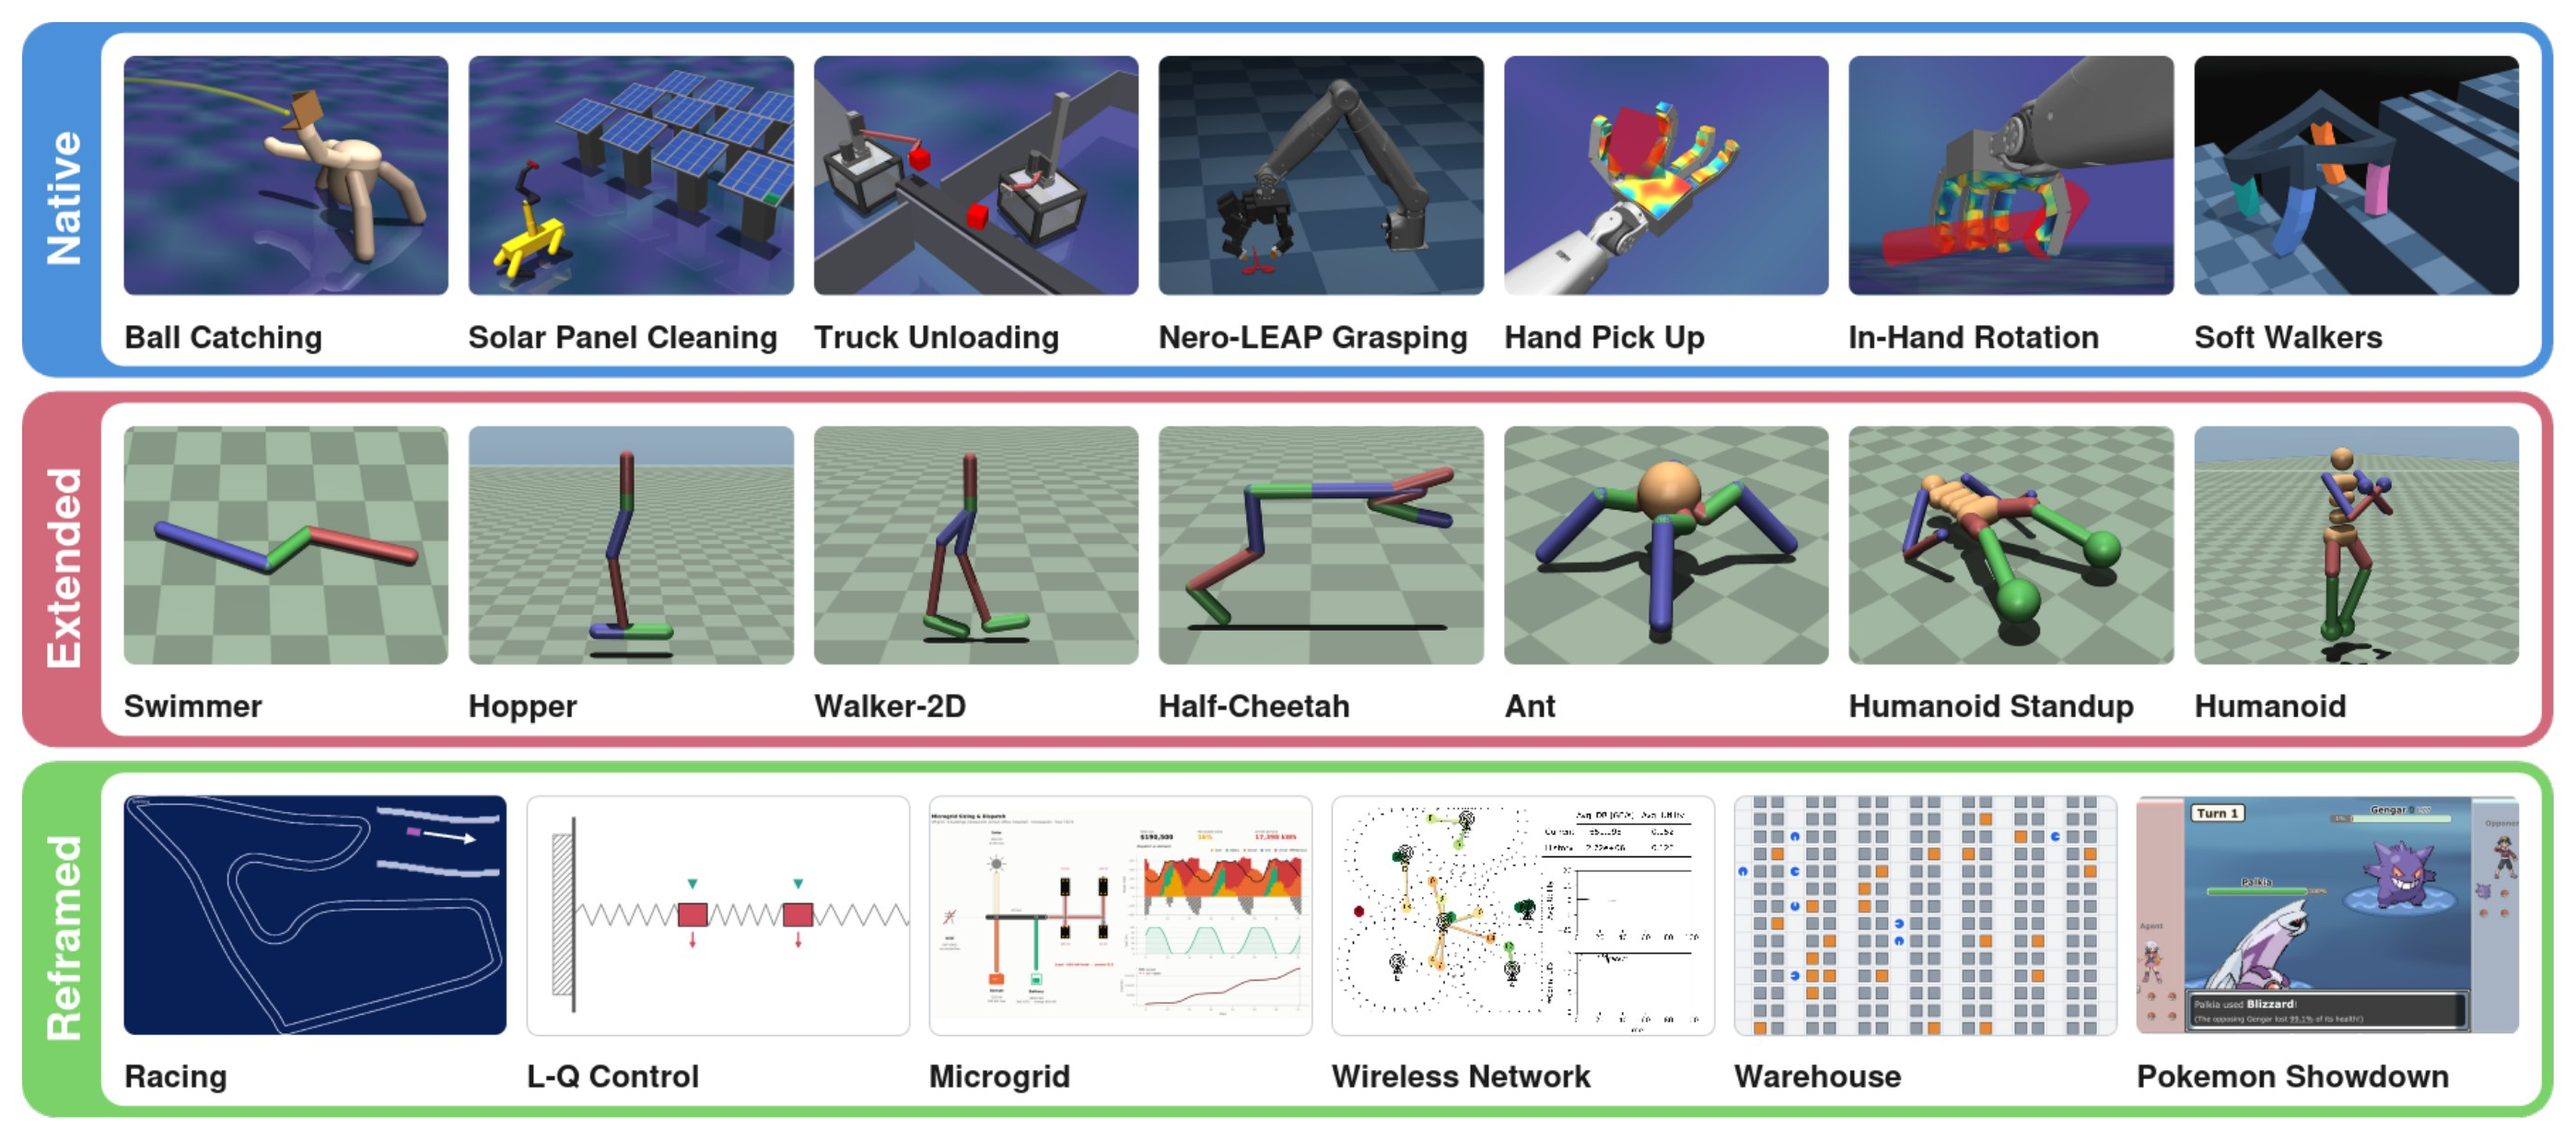
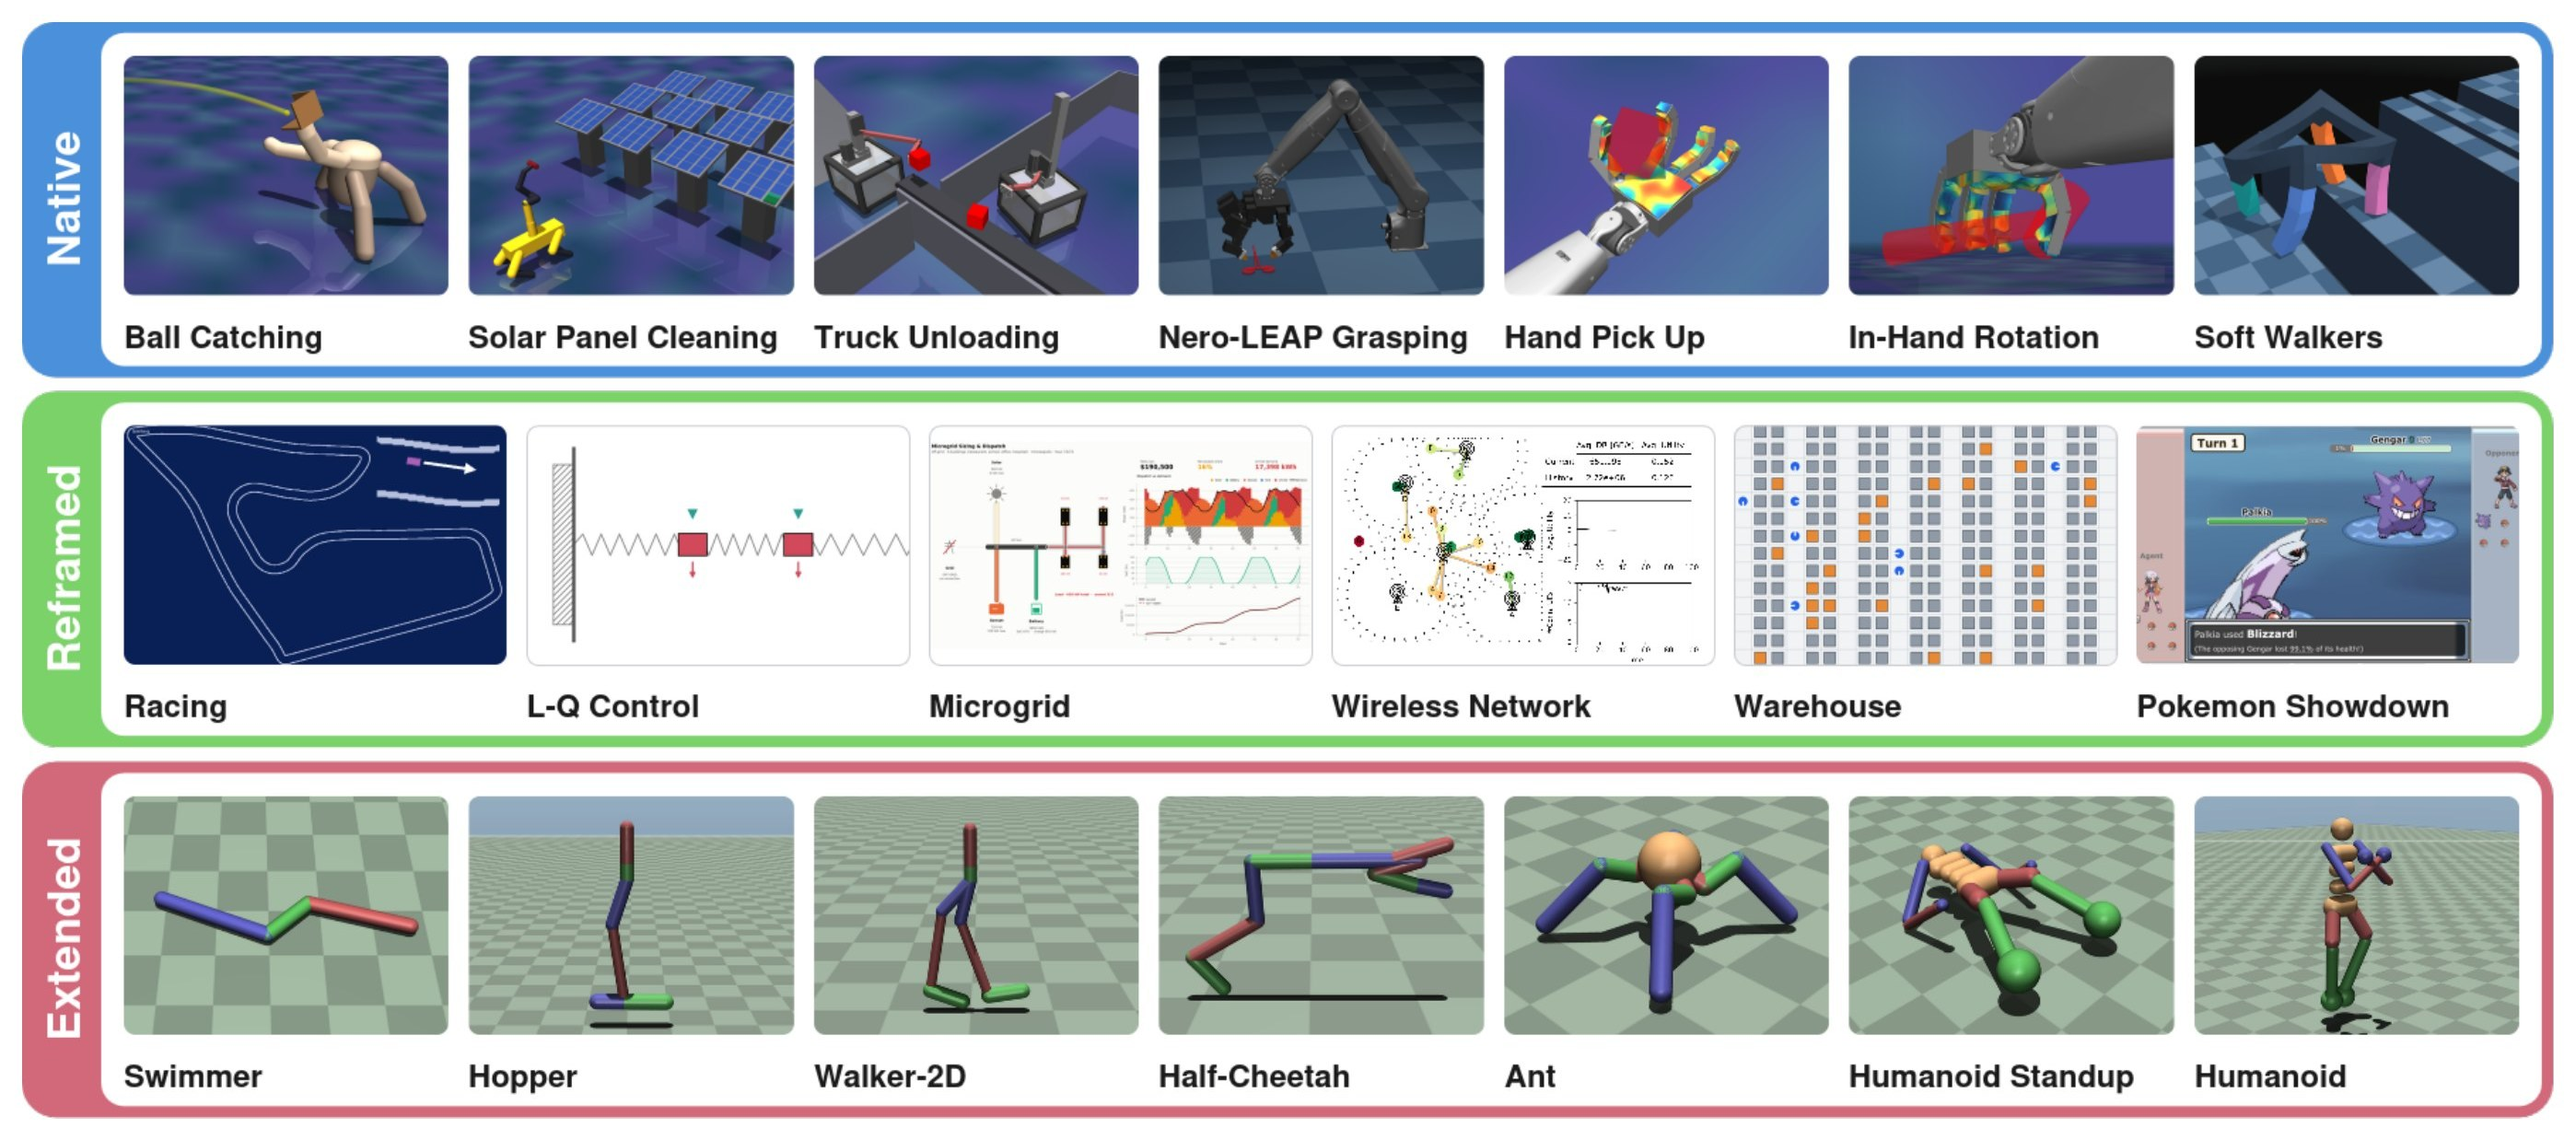
Order categories Native > Reframed > Extended everywhere
Pillars, environment groups and filter chips, family data order, results picker (list + mobile select), image
alt text, and the rows of paper Figures 3 and 8 (restacked).

diff --git a/static/js/envs.js b/static/js/envs.js
@@ -54,6 +54,41 @@ window.ENV_FAMILIES = [
     note: 'Render from the environment (HexFEM 3D on the Gaps terrain), not a baseline run. Baselines on SoftWalkerBeam3D (CMA-ES, FastTD3, PPO+NGOpt; 5 seeds) are in the results explorer. Return windows are not yet characterised.'
   },
   {
+    id: 'lq', name: 'LQ Structure', sim: 'lq_structure · python-control + cvxpy', tags: ['reframed', 'control'], ids: 3,
+    blurb: 'A mass-spring chain with an exact optimum: a sanity check for co-design.',
+    design: 'masses, stiffness, damping, actuator + sensor placement', policy: 'regulate against disturbances (LQR / LQG / QP)',
+    presets: [['LQR: continuous design, unconstrained control', '0 / −∞'], ['LQG: placement under process + sensor noise', '0 / −∞'], ['QP: actuator saturation, mass/authority budget', '0 / −∞']],
+    example: 'LQStructure-LQR-v0', credit: 'Aviraj Newatia.'
+  },
+  {
+    id: 'microgrid', name: 'Microgrid Sizing & Dispatch', sim: 'microgrid · python-microgrid', tags: ['reframed', 'infra'], ids: 5,
+    blurb: 'Size the solar, battery and diesel, then dispatch against real demand.',
+    design: 'solar kW, battery kWh, genset kW', policy: 'charge, discharge, curtail, import',
+    presets: [['Random: one building, grid-tied, 24 h', '+720 / ≈−270k'], ['Forecast: + noisy forecasts', '+720 / ≈−270k'], ['Campus: several buildings', '+2,880 / ≈−1.08M'], ['Off-grid: solar + battery + genset, 72 h', '0 / ≈−378k'], ['Off-grid campus', '0 / ≈−1.51M']],
+    example: 'MicrogridRandom', credit: 'Aviraj Newatia; built on python-microgrid (pymgrid).'
+  },
+  {
+    id: 'network', name: 'Wireless Network Placement', sim: 'mobile_env · mobile-env', tags: ['reframed', 'infra'], ids: 3,
+    blurb: 'Place base stations, then hand moving users between them.',
+    design: 'number, position and transmit power of base stations (count + power budgets)', policy: 'user-to-cell association',
+    presets: [['Urban: pedestrians, 3–8 small cells', '+100 / −100'], ['Suburban: mixed mobility, 3–7 cells', '+100 / −100'], ['Motorway: sparse, fast, 1–4 macro cells', '+100 / −100']],
+    example: 'NetworkUrban', credit: 'Aviraj Newatia; built on mobile-env.'
+  },
+  {
+    id: 'racing', name: 'Vehicle Setup (Racing)', sim: 'f1tenth · f1tenth_gym_jax (JAX)', tags: ['reframed', 'games'], ids: 2, transition: true,
+    blurb: 'Tune grip, stiffness and power, then drive the fastest lap.',
+    design: 'tyre grip, cornering stiffness, drive power, weight distribution (mass is derived)', policy: 'steering + throttle',
+    presets: [['Spielberg time trial', '±343 m (one lap)'], ['Levine time trial', '±63 m (one lap)']],
+    example: 'RacingSpielberg', credit: 'Aviraj Newatia; built on f1tenth_gym_jax.'
+  },
+  {
+    id: 'warehouse', name: 'Warehouse Layout', sim: 'robot_warehouse · Jumanji (JAX)', tags: ['reframed', 'multi'], ids: 3,
+    blurb: 'Lay out the shelves, then coordinate the robot fleet.',
+    design: 'combinatorial shelf placement', policy: 'joint navigation for the whole fleet',
+    presets: [['Small: 10×10, 2 robots, 25 shelves', '+1000 / 0'], ['Medium: 16×16, 4 robots, 115 shelves', '+1000 / 0'], ['Congested: 20×22, 8 robots, 264 shelves', '+1000 / 0']],
+    example: 'WarehouseSmall', credit: 'Aviraj Newatia; built on Jumanji RobotWarehouse.'
+  },
+  {
     id: 'halfcheetah', name: 'Half-Cheetah', sim: 'half_cheetah · MuJoCo Warp', tags: ['extended', 'loco'], ids: 1,
     blurb: "A planar runner whose six leg segments you can reshape.",
     design: "each leg segment’s length and angle, head and torso halves (16-dim)", policy: '6 leg joints',
@@ -110,41 +145,6 @@ window.ENV_FAMILIES = [
     note: "Real eval rollout (FastTD3), follow-cropped around the robot."
   },
   {
-    id: 'lq', name: 'LQ Structure', sim: 'lq_structure · python-control + cvxpy', tags: ['reframed', 'control'], ids: 3,
-    blurb: 'A mass-spring chain with an exact optimum: a sanity check for co-design.',
-    design: 'masses, stiffness, damping, actuator + sensor placement', policy: 'regulate against disturbances (LQR / LQG / QP)',
-    presets: [['LQR: continuous design, unconstrained control', '0 / −∞'], ['LQG: placement under process + sensor noise', '0 / −∞'], ['QP: actuator saturation, mass/authority budget', '0 / −∞']],
-    example: 'LQStructure-LQR-v0', credit: 'Aviraj Newatia.'
-  },
-  {
-    id: 'microgrid', name: 'Microgrid Sizing & Dispatch', sim: 'microgrid · python-microgrid', tags: ['reframed', 'infra'], ids: 5,
-    blurb: 'Size the solar, battery and diesel, then dispatch against real demand.',
-    design: 'solar kW, battery kWh, genset kW', policy: 'charge, discharge, curtail, import',
-    presets: [['Random: one building, grid-tied, 24 h', '+720 / ≈−270k'], ['Forecast: + noisy forecasts', '+720 / ≈−270k'], ['Campus: several buildings', '+2,880 / ≈−1.08M'], ['Off-grid: solar + battery + genset, 72 h', '0 / ≈−378k'], ['Off-grid campus', '0 / ≈−1.51M']],
-    example: 'MicrogridRandom', credit: 'Aviraj Newatia; built on python-microgrid (pymgrid).'
-  },
-  {
-    id: 'network', name: 'Wireless Network Placement', sim: 'mobile_env · mobile-env', tags: ['reframed', 'infra'], ids: 3,
-    blurb: 'Place base stations, then hand moving users between them.',
-    design: 'number, position and transmit power of base stations (count + power budgets)', policy: 'user-to-cell association',
-    presets: [['Urban: pedestrians, 3–8 small cells', '+100 / −100'], ['Suburban: mixed mobility, 3–7 cells', '+100 / −100'], ['Motorway: sparse, fast, 1–4 macro cells', '+100 / −100']],
-    example: 'NetworkUrban', credit: 'Aviraj Newatia; built on mobile-env.'
-  },
-  {
-    id: 'racing', name: 'Vehicle Setup (Racing)', sim: 'f1tenth · f1tenth_gym_jax (JAX)', tags: ['reframed', 'games'], ids: 2, transition: true,
-    blurb: 'Tune grip, stiffness and power, then drive the fastest lap.',
-    design: 'tyre grip, cornering stiffness, drive power, weight distribution (mass is derived)', policy: 'steering + throttle',
-    presets: [['Spielberg time trial', '±343 m (one lap)'], ['Levine time trial', '±63 m (one lap)']],
-    example: 'RacingSpielberg', credit: 'Aviraj Newatia; built on f1tenth_gym_jax.'
-  },
-  {
-    id: 'warehouse', name: 'Warehouse Layout', sim: 'robot_warehouse · Jumanji (JAX)', tags: ['reframed', 'multi'], ids: 3,
-    blurb: 'Lay out the shelves, then coordinate the robot fleet.',
-    design: 'combinatorial shelf placement', policy: 'joint navigation for the whole fleet',
-    presets: [['Small: 10×10, 2 robots, 25 shelves', '+1000 / 0'], ['Medium: 16×16, 4 robots, 115 shelves', '+1000 / 0'], ['Congested: 20×22, 8 robots, 264 shelves', '+1000 / 0']],
-    example: 'WarehouseSmall', credit: 'Aviraj Newatia; built on Jumanji RobotWarehouse.'
-  },
-  {
     id: 'pokemon', name: 'Pokémon Showdown', sim: 'pokenv · Pokémon Showdown + poke-env', tags: ['reframed', 'games'], ids: 23,
     blurb: 'Build a team of six, then learn to win with it.',
     design: 'the team: species, moves, EVs, item, nature, ability × 6 slots', policy: 'the battle strategy, turn by turn',
@@ -155,4 +155,4 @@ window.ENV_FAMILIES = [
   }
 ];
 
-window.ENV_TAGS = [['all', 'All'], ['native', 'Native'], ['extended', 'Extended'], ['reframed', 'Reframed']];
+window.ENV_TAGS = [['all', 'All'], ['native', 'Native'], ['reframed', 'Reframed'], ['extended', 'Extended']];

diff --git a/index.html b/index.html
@@ -82,11 +82,11 @@
 <section class="block" id="idea">
   <div class="wrap">
     <div class="sec-head reveal"><span class="sec-num">§1</span><div><h2>The body shapes the brain.<br>The brain defines the body.</h2><p>An embodiment decides what a policy can do; the best embodiment is the one whose policy does best. Optimize them apart and you leave performance on the table.</p></div></div>
-    <figure class="paper-fig hero-fig reveal"><a class="zoom" href="static/images/paper/overview.jpg" target="_blank" rel="noopener" title="Open full size"><img src="static/images/paper/overview.jpg" alt="Co-Design Gym overview: Native robotics domains, Extended classic MuJoCo tasks, and Reframed problems from games, energy, networking, racing, logistics and control." loading="lazy"></a></figure>
+    <figure class="paper-fig hero-fig reveal"><a class="zoom" href="static/images/paper/overview.jpg" target="_blank" rel="noopener" title="Open full size"><img src="static/images/paper/overview.jpg" alt="Co-Design Gym overview: Native robotics domains, Reframed problems from games, energy, networking, racing, logistics and control, and Extended classic MuJoCo tasks." loading="lazy"></a></figure>
     <div class="pillars reveal">
       <div class="pillar p-native"><b>Native</b><span>New robotics domains built for co-design: catching, cleaning, unloading, grasping, shape-shifting hands, soft walkers.</span></div>
-      <div class="pillar p-extended"><b>Extended</b><span>The classic MuJoCo control tasks, now with bodies you can reshape.</span></div>
       <div class="pillar p-reframed"><b>Reframed</b><span>Racing, power grids, wireless networks, warehouses, Pok&eacute;mon and optimal control, recast as co-design.</span></div>
+      <div class="pillar p-extended"><b>Extended</b><span>The classic MuJoCo control tasks, now with bodies you can reshape.</span></div>
     </div>
     <div class="slice reveal">
       <img src="static/images/paper/landscape.jpg" alt="A joint co-design landscape over policy space and embodiment space; fixing the embodiment explores only one slice." loading="lazy">
@@ -171,7 +171,7 @@
 <section class="block" id="environments">
   <div class="wrap">
     <div class="sec-head reveal"><span class="sec-num">§3</span><div><h2>20 families. 85+ presets.</h2><p>Hover a card to watch it; tap for presets and code.</p></div></div>
-    <figure class="paper-fig envs-fig reveal"><a class="zoom" href="static/images/paper/environments.jpg" target="_blank" rel="noopener" title="Open full size"><img src="static/images/paper/environments.jpg" alt="Grid of all environment families, grouped as Native, Extended and Reframed." loading="lazy"></a></figure>
+    <figure class="paper-fig envs-fig reveal"><a class="zoom" href="static/images/paper/environments.jpg" target="_blank" rel="noopener" title="Open full size"><img src="static/images/paper/environments.jpg" alt="Grid of all environment families, grouped as Native, Reframed and Extended." loading="lazy"></a></figure>
     <div class="filters" id="env-filters" role="toolbar" aria-label="Filter environments"></div>
     <div class="env-groups" id="env-grid"></div>
   </div>
@@ -370,13 +370,13 @@ REGISTRY[<span class="s">"MyEnv-v0"</span>] = (<span class="s">"envs.my_env.regi
   </div>
 </footer>
 
-<script src="static/js/envs.js?v=cf49afb3f9"></script>
-<script src="static/js/main.js?v=2f62b5d29a"></script>
+<script src="static/js/envs.js?v=8b7a6774f2"></script>
+<script src="static/js/main.js?v=ac9c7beb01"></script>
 <script src="https://cdn.jsdelivr.net/npm/planck@1.5.0/dist/planck.min.js"></script>
 <script src="static/js/catcher-core.js?v=5b267256ac"></script>
 <script src="static/js/demo-catcher.js?v=84885a9ab3"></script>
 <script src="static/js/walker-core.js?v=5d33d8fee9"></script>
 <script src="static/js/demo-walker.js?v=f0ea2a6cde"></script>
-<script src="static/js/results.js?v=b5aa975979"></script>
+<script src="static/js/results.js?v=1702a5315a"></script>
 </body>
 </html>

diff --git a/static/js/main.js b/static/js/main.js
@@ -56,7 +56,7 @@
         ${f.transition ? '<span class="badge">θ can change mid-episode</span>' : ''}</div></button>`;
     };
     // all 20 families, grouped as in the paper (Figure 3)
-    const GROUPS = [['native', 'Native', 'New domains built for co-design'], ['extended', 'Extended', 'Classic MuJoCo control, with reshapeable bodies'], ['reframed', 'Reframed', 'Existing problems, recast as co-design']];
+    const GROUPS = [['native', 'Native', 'New domains built for co-design'], ['reframed', 'Reframed', 'Existing problems, recast as co-design'], ['extended', 'Extended', 'Classic MuJoCo control, with reshapeable bodies']];
     grid.innerHTML = GROUPS.map(([k, n, d]) => { const fs = fams.filter(f => f.tags[0] === k); return `<div class="env-group g-${k}" data-group="${k}"><h3 class="grp-h"><span>${n}</span><em>${fs.length} families · ${d}</em></h3><div class="env-grid">${fs.map(card).join('')}</div></div>`; }).join('');
     grid.querySelectorAll('.reveal').forEach(el => rv.observe(el));
     filters.innerHTML = [['all', 'All', fams.length]].concat(GROUPS.map(([k, n]) => [k, n, fams.filter(f => f.tags[0] === k).length])).map(([k, n, c]) => `<button type="button" class="chip" data-tag="${k}" aria-pressed="${k === 'all'}">${n}<span class="n">${c}</span></button>`).join('');

diff --git a/static/js/results.js b/static/js/results.js
@@ -34,7 +34,7 @@
     const list = $('.picker .list'), sel = $('.picker select');
     let html = '', opts = '', last = null;
     const groups = { Native: 'Native environments', Extended: 'Classic locomotion, co-designed', Reframed: 'Reframed problems' };
-    const order = ['Native', 'Extended', 'Reframed'];
+    const order = ['Native', 'Reframed', 'Extended'];
     order.forEach(g => {
       const ps = D.presets.filter(p => p.group === g);
       html += `<h4>${groups[g]}</h4>`; opts += `<optgroup label="${groups[g]}">`;
